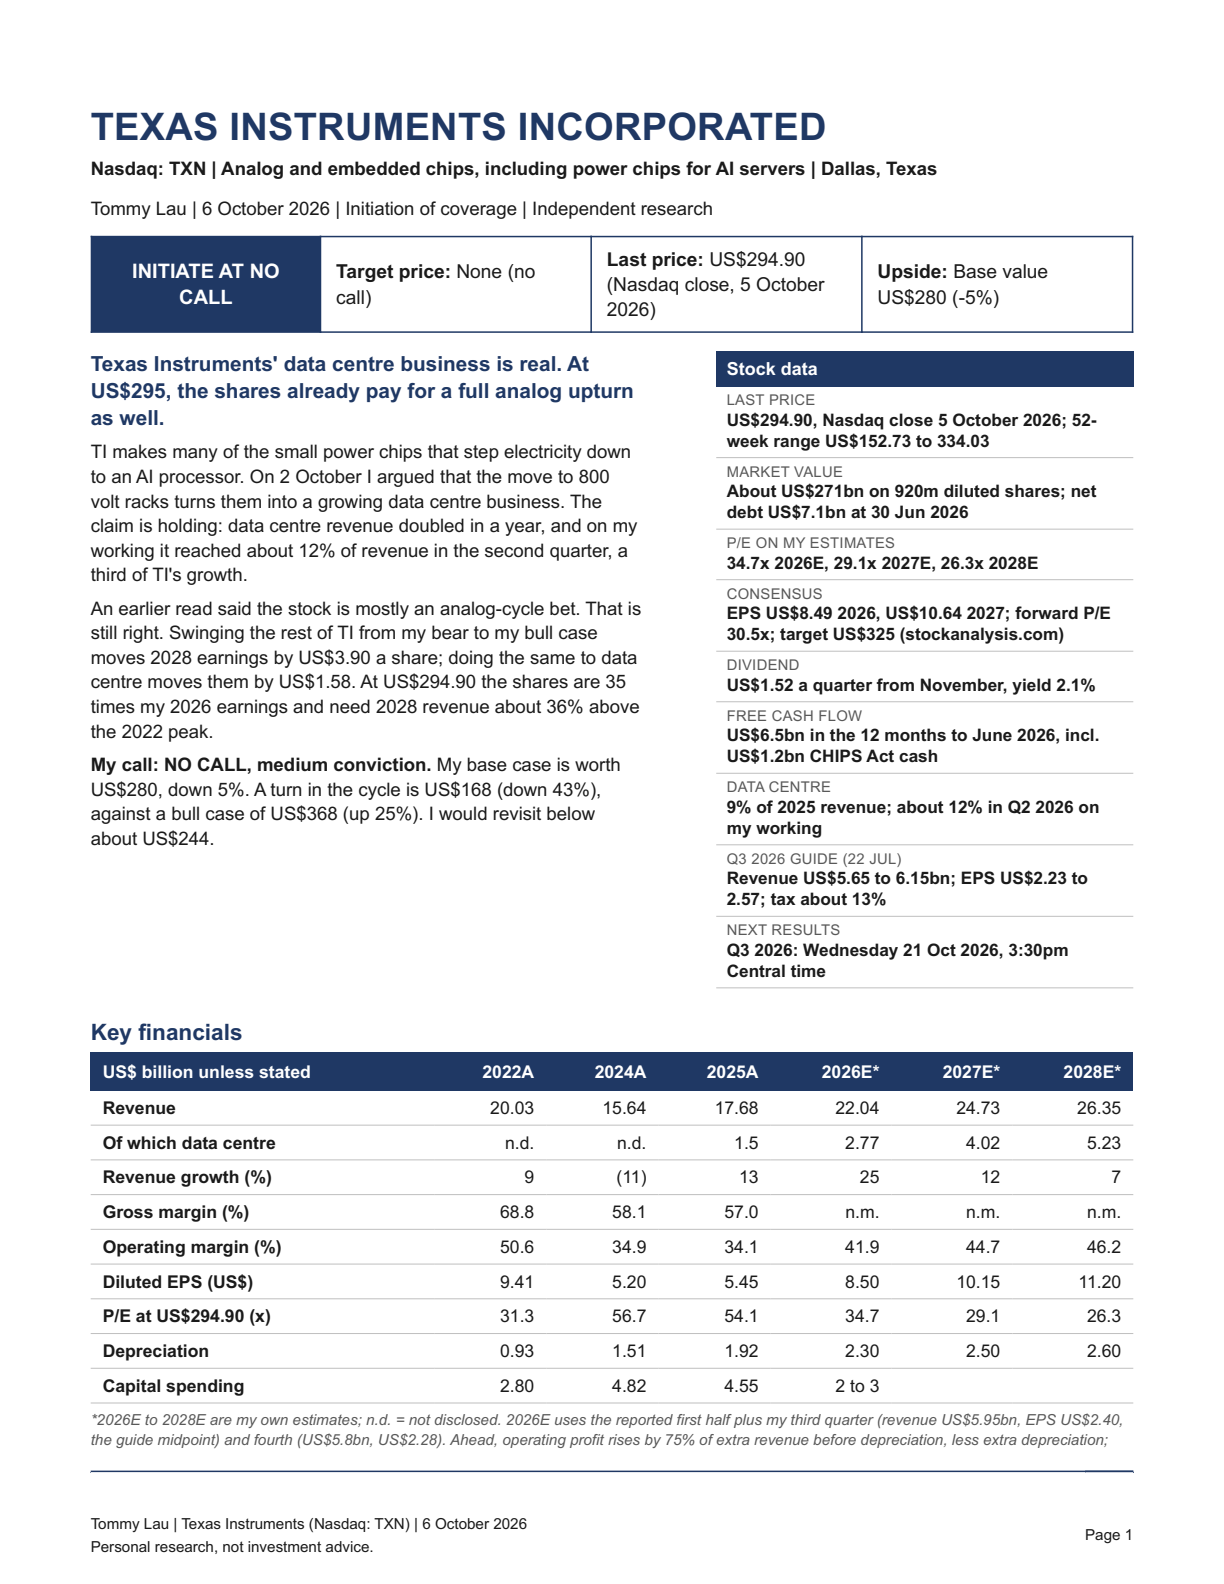
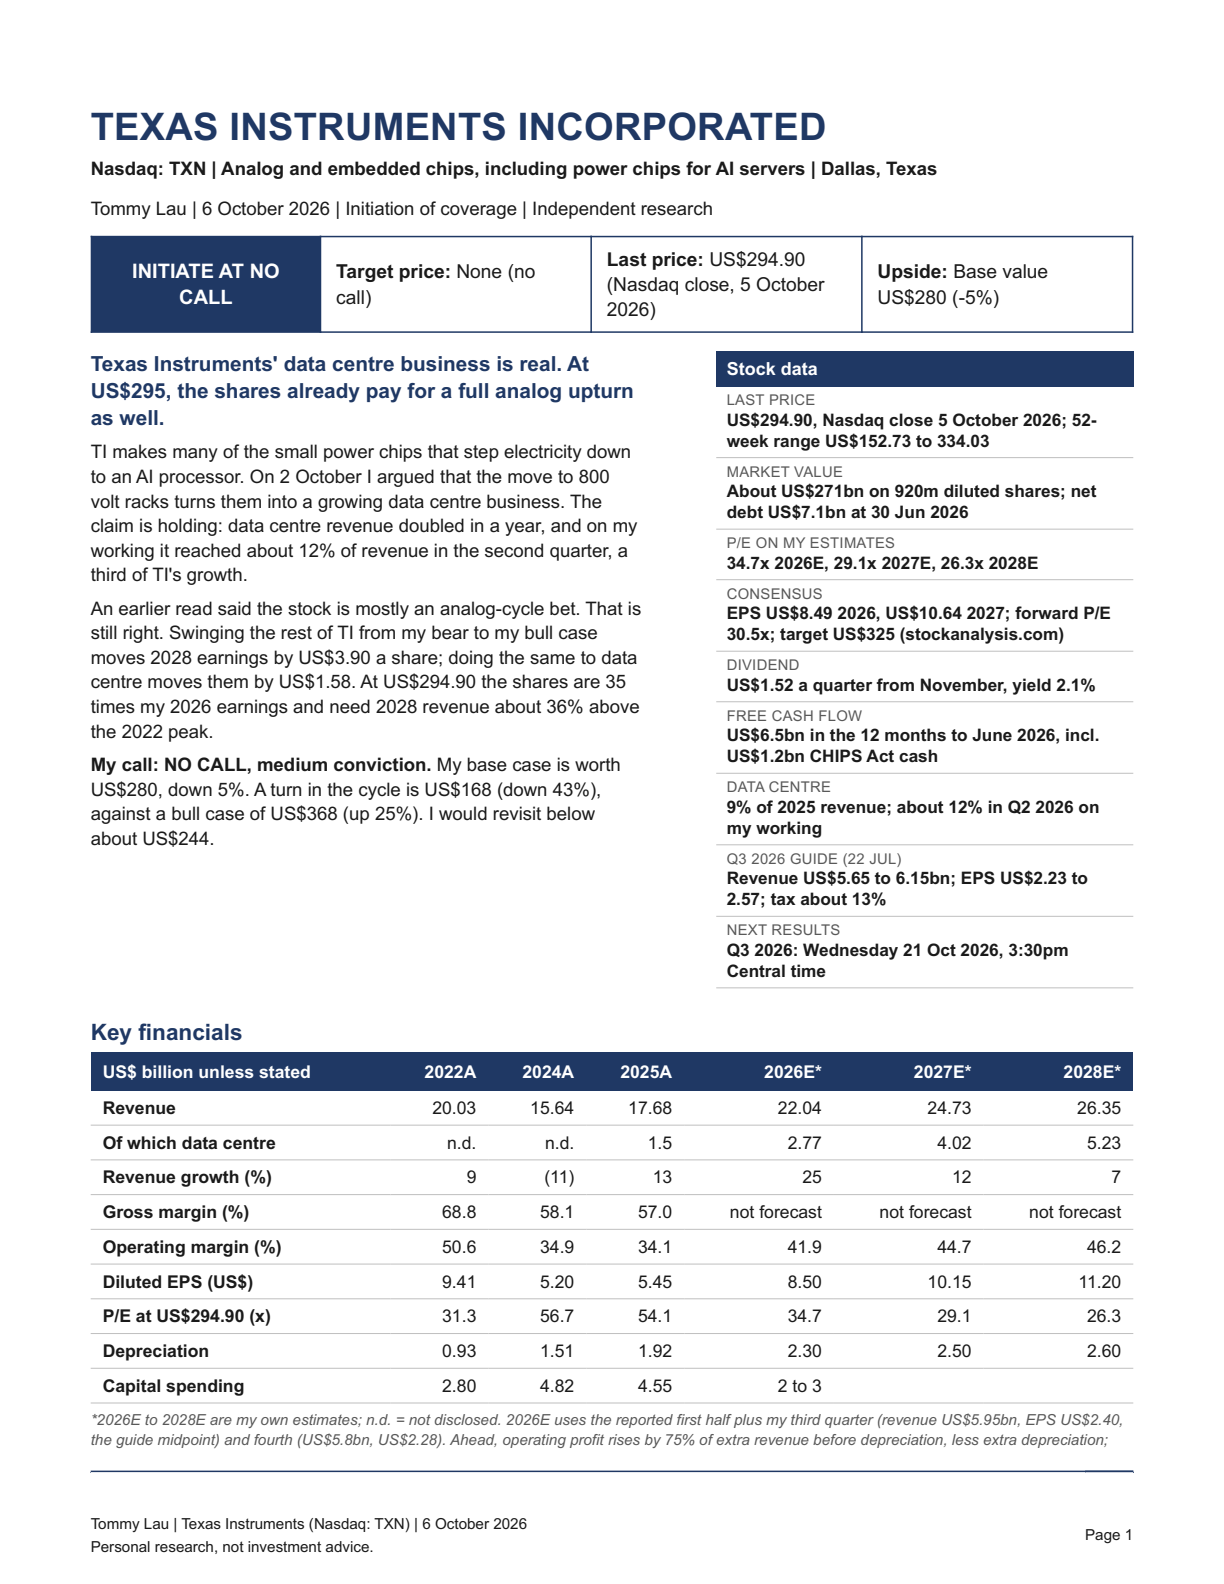
Fact-check fixes: Texas Instruments wording and a missing price-rise point

diff --git a/research-build/texas-instruments/build_note.py b/research-build/texas-instruments/build_note.py
@@ -90,7 +90,7 @@ A(datatable(
         ["Revenue", f"{REV_H[3]:.2f}", f"{REV_H[5]:.2f}", f"{REV_H[6]:.2f}", f"{REV26:.2f}", f"{R27:.2f}", f"{R28:.2f}"],
         ["Of which data centre", "n.d.", "n.d.", f"{DC_25:.1f}", f"{DC_26E:.2f}", f"{PB['dc27']:.2f}", f"{PB['dc28']:.2f}"],
         ["Revenue growth (%)", "9", "(11)", f"{(REV_H[6] / REV_H[5] - 1) * 100:.0f}", f"{(REV26 / REV_H[6] - 1) * 100:.0f}", f"{(R27 / REV26 - 1) * 100:.0f}", f"{(R28 / R27 - 1) * 100:.0f}"],
-        ["Gross margin (%)", f"{GM22 * 100:.1f}", f"{GP_H[5] / REV_H[5] * 100:.1f}", f"{GP_H[6] / REV_H[6] * 100:.1f}", "n.m.", "n.m.", "n.m."],
+        ["Gross margin (%)", f"{GM22 * 100:.1f}", f"{GP_H[5] / REV_H[5] * 100:.1f}", f"{GP_H[6] / REV_H[6] * 100:.1f}", "not forecast", "not forecast", "not forecast"],
         ["Operating margin (%)", f"{OM22 * 100:.1f}", f"{OP_H[5] / REV_H[5] * 100:.1f}", f"{OP_H[6] / REV_H[6] * 100:.1f}", f"{OM26 * 100:.1f}", f"{OM27 * 100:.1f}", f"{OM28 * 100:.1f}"],
         ["Diluted EPS (US$)", f"{EPS_H[3]:.2f}", f"{EPS_H[5]:.2f}", f"{EPS_H[6]:.2f}", f"{EPS26:.2f}", f"{EPS27:.2f}", f"{EPS28:.2f}"],
         [f"P/E at US${PRICE:.2f} (x)", f"{PRICE / EPS_H[3]:.1f}", f"{PRICE / EPS_H[5]:.1f}", f"{PRICE / EPS_H[6]:.1f}", f"{PRICE / EPS26:.1f}", f"{PRICE / EPS27:.1f}", f"{PRICE / EPS28:.1f}"],
@@ -102,7 +102,7 @@ A(datatable(
 A(caption("*2026E to 2028E are my own estimates; n.d. = not disclosed. 2026E uses the reported first half plus my third quarter "
           f"(revenue US${Q3E_REV}bn, EPS US${Q3E_EPS:.2f}, the guide midpoint) and fourth (US${Q4E_REV}bn, US${Q4E_EPS:.2f}). Ahead, operating "
           f"profit rises by {FALL * 100:.0f}% of extra revenue before depreciation, less extra depreciation; EPS = (operating profit less "
-          f"US$0.32bn net interest) x (1 - {TAX * 100:.0f}% tax) / 920m shares. 2026 depreciation and capital spending are TI's guides. "
+          f"about US$0.3bn net interest) x (1 - {TAX * 100:.0f}% tax) / 920m shares. 2026 depreciation and capital spending are TI's guides. "
           "History from TI's Forms 10-K (SEC XBRL). Silicon Labs is excluded."))
 
 A('<div class="keeptogether">')
@@ -141,11 +141,11 @@ A(para(f"<strong>The factory build.</strong> TI spent about US${CAPEX_CYCLE:.0f}
 
 A(section("Where I was wrong in October"))
 A(para("In the piece I called TI's 61% gross margin what owning cheap, full factories looks like in money. TI's factories are not "
-       "full. On the July call TI said loadings rose through the second quarter and were still rising into the third, and that it "
+       "full, and the piece itself said they still had to be filled. On the July call TI said loadings rose through the second quarter and were still rising into the third, and that it "
        f"has empty clean room space ready to equip. The margin is also {GM22 * 100 - GM_Q2 * 100:.0f} points below 2022's "
-       f"{GM22 * 100:.1f}%, on lower revenue then, because depreciation rose from US${DEP_H[3]:.2f}bn in 2022 to US${DEP_H[6]:.2f}bn "
+       f"{GM22 * 100:.1f}%, on revenue of about what TI earned in the year to June 2026, mostly because depreciation rose from US${DEP_H[3]:.2f}bn in 2022 to US${DEP_H[6]:.2f}bn "
        "in 2025, with US$2.2 to 2.4bn guided for 2026. Putting the July call next to the depreciation line showed the slip. It "
-       "matters: half-full factories leave room for the margin to rise, but the larger fixed cost base makes earnings fall faster "
+       "matters: partly filled factories leave room for the margin to rise, but the larger fixed cost base makes earnings fall faster "
        "if the cycle turns. The piece and the claim stay exactly as published."))
 
 A(section("Variant perception: what the market prices in, and where I differ"))
@@ -249,7 +249,8 @@ A('</div>')
 
 A(section("Risks: what would hurt the view"))
 A(para("<strong>The upturn runs longer.</strong> The bull case and the main risk to a no call. Restocking could last into 2027, "
-       "and with empty clean room space and falling capital spending each extra dollar carries a high margin. A gross margin of "
+       "and with empty clean room space and falling capital spending each extra dollar carries a high margin. TI also said on the "
+       "July call that it had started raising prices, which builds through the second half. A gross margin of "
        "65% or more would be the clearest sign."))
 A(para("<strong>The upturn turns.</strong> The bear case. Industrial and automotive are two thirds of revenue, and 30% industrial "
        "growth will not repeat for long. The new fixed cost base makes earnings fall faster than revenue."))

diff --git a/src/content/calls/texas-instruments.md b/src/content/calls/texas-instruments.md
@@ -5,7 +5,7 @@ company: "Texas Instruments"
 ticker: "TXN"
 exchange: "Nasdaq"
 claims: ["ti-feeds-the-chip"]
-correction: "I called TI's 61 per cent gross margin what full factories look like. TI's factories are not full: loadings are still rising, and the margin sits seven points below 2022 because depreciation has more than doubled."
+correction: "I called TI's 61 per cent gross margin what full factories look like. TI's factories are not full: loadings are still rising, and the margin sits seven points below 2022, mostly because depreciation has more than doubled."
 keyPoints:
   - "Texas Instruments makes the small power chips that step electricity down to an AI processor. Its data centre sales doubled in a year, and on my working they reached about 12 per cent of revenue in the second quarter, up from 9 per cent for 2025."
   - "Data centre supplied about a third of TI's growth in that quarter. The rest came from the analog upturn in factories and cars, and that cycle moves my 2028 earnings two and a half times as much as data centre does."
@@ -124,11 +124,11 @@ So data centre is no longer a rounding error in TI's growth. On my estimates it 
 
 Capital spending fell from US$4.55 billion in 2025 to an expected US$2 to 3 billion in 2026. CHIPS Act grants and tax credits return part of the rest. Free cash flow, in TI's definition, rose from US$1.5 billion in 2024 to US$6.5 billion in the twelve months to June 2026.
 
-**Where I was wrong in October.** In the piece I called TI's 61 per cent gross margin what owning cheap, full factories looks like in money. TI's factories are not full. On the July call TI said loadings rose through the second quarter and were still rising into the third. It also said it has empty clean room space ready to equip.
+**Where I was wrong in October.** In the piece I called TI's 61 per cent gross margin what owning cheap, full factories looks like in money. TI's factories are not full. On the July call TI said loadings rose through the second quarter and were still rising into the third. It also said it has empty clean room space ready to equip. The piece also said the factories now had to be filled, so it contradicted itself.
 
-The margin also sits well below its last peak. Gross margin was 68.8 per cent in 2022, on lower revenue than today. The difference is depreciation, the annual charge for factories already built. It rose from US$0.93 billion in 2022 to US$1.92 billion in 2025, and TI expects US$2.2 to 2.4 billion in 2026.
+The margin also sits well below its last peak. Gross margin was 68.8 per cent in 2022, on revenue of US$20.0 billion, about what TI earned in the year to June 2026. Most of the difference is depreciation, the annual charge for factories already built. It rose from US$0.93 billion in 2022 to US$1.92 billion in 2025, and TI expects US$2.2 to 2.4 billion in 2026.
 
-What changed my view was putting the July call next to TI's depreciation line for this note. The point matters for the call. Half-full factories mean the margin can still rise as they fill. But a larger fixed cost base also means earnings fall faster if the cycle turns. The piece and the claim stay exactly as published.
+What changed my view was putting the July call next to TI's depreciation line for this note. The point matters for the call. Partly filled factories mean the margin can still rise as they fill. But a larger fixed cost base also means earnings fall faster if the cycle turns. The piece and the claim stay exactly as published.
 
 ## What the market prices in, and where I differ
 
@@ -156,7 +156,7 @@ I value TI on earnings per share, twelve months out, so the year I value is 2028
 
 I build revenue in two parts: data centre and the rest of TI. Operating profit rises by 75 per cent of each extra dollar of revenue, before depreciation, the middle of the 70 to 85 per cent TI gives. I then subtract extra depreciation of US$0.2 billion in 2027 and US$0.1 billion in 2028.
 
-Other income less interest costs US$0.32 billion a year, as in the second quarter. Tax is 13 per cent, as TI guides, and the share count stays at 920 million. For the third quarter I use revenue of US$5.95 billion, which gives earnings at the US$2.40 midpoint of TI's guide.
+Other income less interest costs about US$0.3 billion a year, close to the second quarter's rate. Tax is 13 per cent, as TI guides, and the share count stays at 920 million. For the third quarter I use revenue of US$5.95 billion, which gives earnings at the US$2.40 midpoint of TI's guide.
 
 | | 2022 | 2025 | 2026 mine | 2027 mine | 2028 mine |
 |---|---|---|---|---|---|
@@ -197,7 +197,7 @@ Only three of the nine cells sit above today's price. To make money from here, T
 
 ## Risks, and what would change my view
 
-**The upturn runs longer.** This is the bull case and the main risk to a no call. Analog makers spent 2023 and 2024 running stock down, and restocking could last into 2027. With empty clean room space and falling capital spending, each extra dollar of revenue carries a high margin. A gross margin of 65 per cent or more would be the clearest sign.
+**The upturn runs longer.** This is the bull case and the main risk to a no call. Analog makers spent 2023 and 2024 running stock down, and restocking could last into 2027. With empty clean room space and falling capital spending, each extra dollar of revenue carries a high margin. TI also said on the July call that it had started raising prices, which builds through the second half. A gross margin of 65 per cent or more would be the clearest sign.
 
 **The upturn turns.** This is the bear case. TI warns every quarter that demand can differ from forecasts. Industrial and automotive are two thirds of revenue, and the 30 per cent industrial growth will not repeat for long. The new fixed cost base makes the fall in earnings steeper than the fall in revenue.
 

diff --git a/research-build/CHANGELOG.md b/research-build/CHANGELOG.md
@@ -30,3 +30,11 @@ Calls, targets, scenario values and revisit levels are never changed after publi
 - The PDF's "Net cash" line is relabelled "Cash less long-term debt". TSMC's own net cash figure, which deducts all interest-bearing debt, is about US$78bn.
 - "2026 near US$172bn" is marked as my estimate. "What changed my view" in the correction reads "What showed me the slip", since the view itself did not change.
 - Checked and kept: the "Where I was wrong" passage, which matches the January transcript and the piece's wording.
+
+**Texas Instruments** (no change to the call, scenarios or revisit levels):
+- The correction now says the 2022 margin gap is "mostly" depreciation (about 5.4 of 7.4 points), not entirely. It notes the piece itself said the factories still had to be filled.
+- "On lower revenue than today" replaced with the exact comparison: 2022 revenue of US$20.0bn is about what TI earned in the year to June 2026.
+- "Half-full factories" changed to "partly filled", since TI gives no utilisation figure.
+- Net interest is about US$0.3bn a year, not US$0.32bn (Q2 was minus US$72m). It moves EPS by about 3 cents.
+- Added that TI said on the July call it had started raising prices; this bears on the 65 per cent gross margin trigger.
+- The PDF's "n.m." for future gross margin now reads "not forecast".
